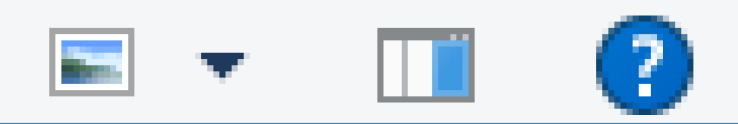
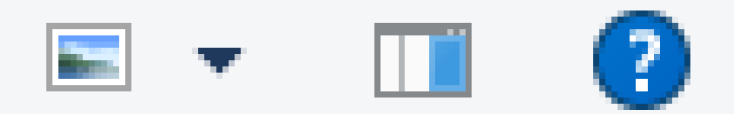
grtym

diff --git a/src/components/ChatWindow.tsx b/src/components/ChatWindow.tsx
@@ -37,6 +37,7 @@ export const ChatWindow: React.FC<ChatWindowProps> = ({
   const [currentStep, setCurrentStep] = useState(0);
   const [isWaitingForUserInput, setIsWaitingForUserInput] = useState(false);
   const [showFileDialog, setShowFileDialog] = useState(false);
+  const [selectedFile, setSelectedFile] = useState('');
   const [forcedText, setForcedText] = useState('');
   const [forcedTextIndex, setForcedTextIndex] = useState(0);
 
@@ -653,15 +654,15 @@ export const ChatWindow: React.FC<ChatWindowProps> = ({
       {/* Windows File Explorer Dialog */}
       {showFileDialog && (
         <div className="fixed inset-0 bg-black bg-opacity-50 flex items-center justify-center z-50 p-4">
-          <div className="bg-white border border-[#0078d4] shadow-2xl" style={{ width: '680px', height: '480px', fontFamily: 'Segoe UI, sans-serif' }}>
+          <div className="bg-white border border-[#0078d4] shadow-2xl" style={{ width: '680px', height: '400px', fontFamily: 'Segoe UI, sans-serif' }}>
             {/* Title Bar */}
-            <div className="h-8 bg-white border-b border-[#e1e1e1] flex items-center justify-between px-2">
+            <div className="h-8 mb-1 bg-white flex items-center justify-between px-2">
               <div className="flex items-center space-x-2">
                 <img src="file-explorer.png" alt="File" className="w-4 h-4" />
                 <span className="text-xs">Öppna</span>
               </div>
               <button
-                className="w-6 h-6 flex items-center justify-center hover:bg-red-500 hover:text-white text-xs"
+                className="w-6 h-6 flex items-center justify-center hover:bg-red-500 hover:text-white text-1xl"
                 onClick={() => setShowFileDialog(false)}
               >
                 ×
@@ -669,82 +670,82 @@ export const ChatWindow: React.FC<ChatWindowProps> = ({
             </div>
 
             {/* Navigation Bar */}
-            <div className="h-10 bg-[#f8f9fa] border-b border-[#e1e1e1] flex items-center px-2 space-x-1">
-              <button className="w-8 h-8 flex items-center justify-center hover:bg-gray-200 rounded">
-                <img src="/open-dialog/SCR-20250806-lyuu.png"   alt="Back" className="h-6 w-80" />
+            <div className="h-10 bg-[#fff] flex items-center px-2 space-x-1">
+              <button className=" h-8 flex items-center justify-center">
+                <img src="/open-dialog/SCR-20250806-lyuu.png"   alt="Back" className="h-6" />
               </button>
           
               <div className="flex-1 mx-2">
-                <div className="flex items-center bg-white border border-gray-300 rounded px-2 py-1 text-xs">
+                <div className="flex items-center bg-white border border-gray-300 px-2 py-1 text-xs">
                   <img src="/open-dialog/SCR-20250806-lypk.png" alt="PC" className="w-4 h-4 mr-1" />
+
+                    <img src="/open-dialog/SCR-20250806-micg.png" alt="PC" className="w-2 h-2 mr-1" />
                   <span>This PC</span>
-                  <span className="mx-1">&gt;</span>
+                    <img src="/open-dialog/SCR-20250806-micg.png" alt="PC" className="w-2 h-2 mr-1 ml-1" />
+
                   <span>Downloads</span>
-                  <button className="ml-auto">
-                    <img src="/open-dialog/SCR-20250806-lyto.png" alt="Dropdown" className="w-8 h-3" />
-                  </button>
+                  
                 </div>
               </div>
-              <div className="flex items-center bg-white border border-gray-300 rounded px-2 py-1 text-xs w-48">
-                <span className="text-gray-500">Sök i Hämtade filer</span>
-                <img src="/open-dialog/SCR-20250806-lyxd.png" alt="Search" className="w-4 h-4 mr-1" />
-              </div>
+             <div className="flex items-center justify-between bg-white border border-gray-300 px-2 py-1 text-xs w-48">
+  <span className="text-gray-500">Sök i Hämtade filer</span>
+  <img src="/open-dialog/SCR-20250806-lyxd.png" alt="Search" className="w-4 h-4" />
+</div>
             </div>
 
             {/* Toolbar */}
-            <div className="h-10 bg-[#f8f9fa] border-b border-[#e1e1e1] flex items-center px-2 space-x-4">
-              <div className="flex items-center space-x-1">
-                <span className="text-xs text-blue-600">Organize</span>
-                <img src="/open-dialog/SCR-20250806-lyyh.png" alt="Dropdown" className="w-3 h-3" />
+            <div className="h-10 bg-[#f8f9fa] border-b border-b-[#F0F0F0] flex items-center px-2 relative">
+              <div className="flex items-center space-x-4">
+                <div className="flex items-center space-x-1">
+                  <span className="text-xs text-[#1F3978] ml-2">Organize</span>
+                  <img src="/open-dialog/SCR-20250806-lyyh.png" alt="Dropdown" className="w-3 h-3" />
+                </div>
+                <span className="text-xs text-[#1F3978]">New folder</span>
               </div>
-              <span className="text-xs text-blue-600">New folder</span>
-              <div className="ml-auto flex items-center space-x-2">
-                {/*   Move this content to the maximum right START   */}
-                <img src="/open-dialog/SCR-20250806-lytd.png" alt="View" className="w-11 h-4" /> 
-                {/*   Move this content to the maximum right END   */}
-    
-              </div>
+              {/*   Move this content to the maximum right START   */}
+              <img src="/open-dialog/SCR-20250806-lytd.png" alt="View" className="h-5 absolute right-2 top-1/2 transform -translate-y-1/2" />
+              {/*   Move this content to the maximum right END   */}
             </div>
 
             {/* Main Content */}
-            <div className="flex flex-1 overflow-hidden">
+            <div className="flex h-64 overflow-hidden">
               {/* Sidebar */}
-              <div className="w-60 bg-[#f8f9fa] border-r border-[#e1e1e1] p-2">
+              <div className="w-70 flex-shrink-0 bg-white border-r border-[#F0F0F0] p-6">
                 <div className="space-y-1 text-xs">
-                  <div className="flex items-center space-x-2 p-1 hover:bg-blue-100 rounded">
-                    <img src="/open-dialog/SCR-20250806-lyuu.png" alt="Favorites" className="w-4 h-4" />
+                  <div className="flex items-center space-x-2 -pl-3 pb-1 hover:bg-blue-100">
+                    <img src="/open-dialog/SCR-20250806-lyoi.png" alt="Favorites" className="w-4 h-4" />
                     <span>Snabbaccess</span>
                   </div>
-                  <div className="flex items-center space-x-2 p-1 hover:bg-blue-100 rounded">
-                    <img src="/open-dialog/SCR-20250806-lywl.png" alt="Desktop" className="w-4 h-4" />
+                  <div className="flex items-center space-x-2 pt-1  pl-1  hover:bg-blue-100">
+                    <img src="/open-dialog/SCR-20250806-lyou.png" alt="Desktop" className="w-4 h-4" />
                     <span>Skrivbordet</span>
                   </div>
-                  <div className="flex items-center space-x-2 p-1 hover:bg-blue-100 rounded bg-blue-100">
-                    <img src="/open-dialog/SCR-20250806-lyxd.png" alt="Downloads" className="w-4 h-4" />
+                  <div className="flex items-center space-x-2 pt-1  pl-1 hover:bg-blue-100">
+                    <img src="/open-dialog/SCR-20250806-lypk.png" alt="Downloads" className="w-4 h-4" />
                     <span>Hämtade filer</span>
                   </div>
-                  <div className="flex items-center space-x-2 p-1 hover:bg-blue-100 rounded">
-                    <img src="/open-dialog/SCR-20250806-lyxl.png" alt="Documents" className="w-4 h-4" />
+                  <div className="flex items-center space-x-2 pt-1  pl-1 hover:bg-blue-100">
+                    <img src="/open-dialog/SCR-20250806-lypv.png" alt="Documents" className="w-4 h-4" />
                     <span>Mina dokument</span>
                   </div>
-                  <div className="flex items-center space-x-2 p-1 hover:bg-blue-100 rounded">
-                    <img src="/open-dialog/SCR-20250806-lyxu.png" alt="Pictures" className="w-4 h-4" />
+                  <div className="flex items-center space-x-2 pt-1 pl-1 hover:bg-blue-100">
+                    <img src="/open-dialog/SCR-20250806-lyqe.png" alt="Pictures" className="w-4 h-4" />
                     <span>Bilder</span>
                   </div>
-                  <div className="flex items-center space-x-2 p-1 hover:bg-blue-100 rounded">
-                    <img src="/open-dialog/SCR-20250806-lyyh.png" alt="Google Drive" className="w-4 h-4" />
+                  <div className="flex items-center space-x-2 pt-1  pl-1 pb-3 hover:bg-blue-100">
+                    <img src="/open-dialog/SCR-20250806-lyqp.png" alt="Google Drive" className="w-4 h-4" />
                     <span>Google Drive</span>
                   </div>
-                  <div className="flex items-center space-x-2 p-1 hover:bg-blue-100 rounded">
-                    <img src="/open-dialog/SCR-20250806-lyyw.png" alt="OneDrive" className="w-4 h-4" />
+                  <div className="flex items-center space-x-2 -pl-3 pt-2 pb-2 hover:bg-blue-100">
+                    <img src="/open-dialog/SCR-20250806-lyqz.png" alt="OneDrive" className="w-4 h-4" />
                     <span>OneDrive</span>
                   </div>
-                  <div className="flex items-center space-x-2 p-1 hover:bg-blue-100 rounded bg-gray-200">
-                    <img src="/open-dialog/SCR-20250806-mcng.png" alt="This PC" className="w-4 h-4" />
+                  <div className="flex items-center space-x-2 -pl-3 pt-2 pb-2 hover:bg-blue-100">
+                    <img src="/open-dialog/SCR-20250806-lyrr.png" alt="This PC" className="w-4 h-4" />
                     <span>This PC</span>
                   </div>
-                  <div className="flex items-center space-x-2 p-1 hover:bg-blue-100 rounded">
-                    <img src="/open-dialog/SCR-20250806-micg.png" alt="Network" className="w-4 h-4" />
+                  <div className="flex items-center space-x-2 -pl-3 pt-2 pb-2 hover:bg-blue-100">
+                    <img src="/open-dialog/SCR-20250806-lysc.png" alt="Network" className="w-4 h-4" />
                     <span>Network</span>
                   </div>
                 </div>
@@ -753,71 +754,99 @@ export const ChatWindow: React.FC<ChatWindowProps> = ({
               {/* File List */}
               <div className="flex-1 bg-white">
                 {/* Column Headers */}
-                <div className="h-8 bg-[#f8f9fa] border-b border-[#e1e1e1] flex items-center px-2 text-xs text-gray-600">
-                  <div className="w-80">Namn</div>
+                <div className="h-8 bg-white border-b border-[#e1e1e1] flex items-center text-xs text-gray-600">
+                  <div className="w-6"></div> {/* Space for icon */}
+                  <div className="w-80 pl-2">Namn</div>
                   <div className="w-32">Modifierad</div>
                   <div className="w-32">Typ</div>
                 </div>
 
                 {/* File Items */}
-                <div className="p-2 space-y-1">
-                  <div className="flex items-center p-1 hover:bg-blue-100 rounded cursor-pointer bg-blue-100">
-                    <img src="/open-dialog/SCR-20250806-mlzz.png" alt="PDF" className="w-4 h-4 mr-2" />
-                    <div className="w-80 text-xs">INT-2025-04-7731-BK.pdf</div>
-                    <div className="w-32 text-xs text-gray-500">4/10/2025 09:17</div>
-                    <div className="w-32 text-xs text-gray-500">Adobe Acrobat Reader</div>
+                <div className="p-2 space-y-[0px]">
+                  <div
+                    className={`flex items-center py-2 cursor-pointer ${
+                      selectedFile === 'INT-2025-04-7731-BK.pdf'
+                        ? 'bg-[#0078d4] text-white'
+                        : 'hover:bg-[#CCE8FE]'
+                    }`}
+                    onClick={() => setSelectedFile('INT-2025-04-7731-BK.pdf')}
+                  >
+                    <div className="w-6 flex justify-center">
+                      <img src="/open-dialog/SCR-20250806-nzvs.png" alt="PDF" className="h-4" />
+                    </div>
+                    <div className="w-80 text-xs pl-2">INT-2025-04-7731-BK.pdf</div>
+                    <div className={`w-32 text-xs ${selectedFile === 'INT-2025-04-7731-BK.pdf' ? 'text-white' : 'text-gray-500'}`}>4/10/2025 09:17</div>
+                    <div className={`w-32 text-xs ${selectedFile === 'INT-2025-04-7731-BK.pdf' ? 'text-white' : 'text-gray-500'}`}>Adobe Acrobat Reader</div>
                   </div>
-                  <div className="flex items-center p-1 hover:bg-blue-100 rounded cursor-pointer">
-                    <img src="/open-dialog/SCR-20250806-mlzz.png" alt="PDF" className="w-4 h-4 mr-2" />
-                    <div className="w-80 text-xs">INT-2025-03-1542-PL.pdf</div>
+                  <div className="flex items-center py-2 hover:bg-[#CCE8FE] border-blue-900 cursor-pointer">
+                    <div className="w-6 flex justify-center">
+                      <img src="/open-dialog/SCR-20250806-nzvs.png" alt="PDF" className="h-4" />
+                    </div>
+                    <div className="w-80 text-xs pl-2">INT-2025-03-1542-PL.pdf</div>
                     <div className="w-32 text-xs text-gray-500">5/22/2025 21:45</div>
                     <div className="w-32 text-xs text-gray-500">Adobe Acrobat Reader</div>
                   </div>
-                  <div className="flex items-center p-1 hover:bg-blue-100 rounded cursor-pointer">
-                    <img src="/open-dialog/SCR-20250806-lyto.png" alt="Folder" className="w-4 h-4 mr-2" />
-                    <div className="w-80 text-xs">FUP-MORDEN</div>
+                  <div className="flex items-center py-2 hover:bg-[#CCE8FE] border-blue-900 cursor-pointer">
+                    <div className="w-6 flex justify-center">
+                      <img src="/open-dialog/SCR-20250806-mcng.png" alt="Folder" className="w-4 h-4" />
+                    </div>
+                    <div className="w-80 text-xs pl-2">FUP-MORDEN</div>
                     <div className="w-32 text-xs text-gray-500">6/15/2025 14:03</div>
                     <div className="w-32 text-xs text-gray-500">Mapp</div>
                   </div>
-                  <div className="flex items-center p-1 hover:bg-blue-100 rounded cursor-pointer">
-                    <img src="/open-dialog/SCR-20250806-lyto.png" alt="Folder" className="w-4 h-4 mr-2" />
-                    <div className="w-80 text-xs">ärende_Värmdö</div>
+                  <div className="flex items-center py-2 hover:bg-[#CCE8FE] border-blue-900 cursor-pointer">
+                    <div className="w-6 flex justify-center">
+                      <img src="/open-dialog/SCR-20250806-mcng.png" alt="Folder" className="w-4 h-4" />
+                    </div>
+                    <div className="w-80 text-xs pl-2">ärende_Värmdö</div>
                     <div className="w-32 text-xs text-gray-500">7/01/2025 06:52</div>
                     <div className="w-32 text-xs text-gray-500">Mapp</div>
                   </div>
-                  <div className="flex items-center p-1 hover:bg-blue-100 rounded cursor-pointer">
-                    <img src="/open-dialog/SCR-20250806-lyto.png" alt="Folder" className="w-4 h-4 mr-2" />
-                    <div className="w-80 text-xs">34-SP-Personalaktar/Misstänkta</div>
+                  <div className="flex items-center py-2 hover:bg-[#CCE8FE] border-blue-900 cursor-pointer">
+                    <div className="w-6 flex justify-center">
+                      <img src="/open-dialog/SCR-20250806-mcng.png" alt="Folder" className="w-4 h-4" />
+                    </div>
+                    <div className="w-80 text-xs pl-2">34-SP-Personalaktar/Misstänkta</div>
                     <div className="w-32 text-xs text-gray-500">8/06/2025 18:29</div>
                     <div className="w-32 text-xs text-gray-500">Mapp</div>
                   </div>
-                  <div className="flex items-center p-1 hover:bg-blue-100 rounded cursor-pointer">
-                    <img src="/open-dialog/SCR-20250806-lyto.png" alt="Folder" className="w-4 h-4 mr-2" />
-                    <div className="w-80 text-xs">Gamla fall</div>
+                  <div className="flex items-center py-2 hover:bg-[#CCE8FE] border-blue-900 cursor-pointer">
+                    <div className="w-6 flex justify-center">
+                      <img src="/open-dialog/SCR-20250806-mcng.png" alt="Folder" className="w-4 h-4" />
+                    </div>
+                    <div className="w-80 text-xs pl-2">Gamla fall</div>
                     <div className="w-32 text-xs text-gray-500">9/14/2025 11:38</div>
                     <div className="w-32 text-xs text-gray-500">Mapp</div>
                   </div>
-                  <div className="flex items-center p-1 hover:bg-blue-100 rounded cursor-pointer">
-                    <img src="/open-dialog/SCR-20250806-lyto.png" alt="Folder" className="w-4 h-4 mr-2" />
-                    <div className="w-80 text-xs">Privat</div>
+                  <div className="flex items-center py-2 hover:bg-[#CCE8FE] border-blue-900 cursor-pointer">
+                    <div className="w-6 flex justify-center">
+                      <img src="/open-dialog/SCR-20250806-mcng.png" alt="Folder" className="w-4 h-4" />
+                    </div>
+                    <div className="w-80 text-xs pl-2">Privat</div>
                     <div className="w-32 text-xs text-gray-500">10/30/2025 23:07</div>
                     <div className="w-32 text-xs text-gray-500">Mapp</div>
                   </div>
-                  <div className="flex items-center p-1 hover:bg-blue-100 rounded cursor-pointer">
-                    <img src="/open-dialog/SCR-20250806-lyue.png" alt="Audio" className="w-4 h-4 mr-2" />
-                    <div className="w-80 text-xs">ljudupptagning_FARSTA.wav</div>
+                  <div className="flex items-center py-2 hover:bg-[#CCE8FE] border-blue-900 cursor-pointer">
+                    <div className="w-6 flex justify-center">
+                      <img src="/open-dialog/SCR-20250806-lyxl.png" alt="Audio" className="w-4 h-4" />
+                    </div>
+                    <div className="w-80 text-xs pl-2">ljudupptagning_FARSTA.wav</div>
                     <div className="w-32 text-xs text-gray-500">11/12/2025 15:56</div>
                     <div className="w-32 text-xs text-gray-500">Waveform</div>
                   </div>
-                  <div className="flex items-center p-1 hover:bg-blue-100 rounded cursor-pointer">
-                    <img src="/open-dialog/SCR-20250806-lyxu.png" alt="Image" className="w-4 h-4 mr-2" />
-                    <div className="w-80 text-xs">fantombild-Larsson.png</div>
+                  <div className="flex items-center py-2 hover:bg-[#CCE8FE] border-blue-900 cursor-pointer">
+                    <div className="w-6 flex justify-center">
+                      <img src="/open-dialog/png.png" alt="Image" className="h-4" />
+                    </div>
+                    <div className="w-80 text-xs pl-2">fantombild-Larsson.png</div>
                     <div className="w-32 text-xs text-gray-500">12/25/2025 08:44</div>
                     <div className="w-32 text-xs text-gray-500">PNG-fil</div>
                   </div>
-                  <div className="flex items-center p-1 hover:bg-blue-100 rounded cursor-pointer">
-                    <img src="/open-dialog/SCR-20250806-lyto.png" alt="Folder" className="w-4 h-4 mr-2" />
-                    <div className="w-80 text-xs">54-MP-Misstänkta</div>
+                  <div className="flex items-center py-2 hover:bg-[#CCE8FE] border-blue-900 cursor-pointer">
+                    <div className="w-6 flex justify-center">
+                      <img src="/open-dialog/SCR-20250806-mcng.png" alt="Folder" className="w-4 h-4" />
+                    </div>
+                    <div className="w-80 text-xs pl-2">54-MP-Misstänkta</div>
                     <div className="w-32 text-xs text-gray-500">1/05/2026 20:15</div>
                     <div className="w-32 text-xs text-gray-500">Mapp</div>
                   </div>
@@ -826,25 +855,33 @@ export const ChatWindow: React.FC<ChatWindowProps> = ({
             </div>
 
             {/* Bottom Bar */}
-            <div className="h-12 bg-[#f8f9fa] border-t border-[#e1e1e1] flex items-center px-4 space-x-4">
-              <div className="flex items-center space-x-2 flex-1">
-                <span className="text-xs">Filnamn:</span>
-                <div className="flex-1 bg-white border border-gray-300 rounded px-2 py-1 text-xs">
-                  INT-2025-04-7731-BK.pdf
+            <div className="bg-[#F0F0F0] border-t border-[#e1e1e1] px-4 py-3 -mt-4 relative z-10">
+              {/* First Row - Filnamn and Alla filer */}
+              <div className="flex items-center space-x-4 mb-3">
+                <div className="flex items-center space-x-2 ml-auto">
+                  <span className="text-xs">Filnamn:</span>
+                
+                <div className="bg-white border border-blue-300 px-2 py-1 text-xs w-64 flex items-center justify-between">
+                    <span>{selectedFile || ''}</span>
+                    <button className="text-xs">
+                      <img src="/open-dialog/pilned.png" alt="Dropdown" className="h-4 w-[11px] pt-1 pb-1" />
+                    </button>
+                  </div>
+
+
                 </div>
-                <button className="text-xs">
-                  <img src="/open-dialog/SCR-20250806-lyqz.png" alt="Dropdown" className="w-3 h-3" />
-                </button>
+                <div className="flex items-center">
+                  <select className="text-xs bg-[#E1E1E1] border border-gray-300 px-2 py-1">
+                    <option>Alla filer</option>
+                    <option>PDF-filer (*.pdf)</option>
+                    <option>Dokument (*.doc, *.docx)</option>
+                  </select>
+                </div>
               </div>
-              <div className="flex items-center">
-                <select className="text-xs bg-white border border-gray-300 rounded px-2 py-1">
-                  <option>Alla filer</option>
-                  <option>PDF-filer (*.pdf)</option>
-                  <option>Dokument (*.doc, *.docx)</option>
-                </select>
-              </div>
-              <div className="flex space-x-2">
-                <button className="px-4 py-1 bg-[#0078d4] text-white text-xs rounded hover:bg-[#106ebe]"
+
+              {/* Second Row - Buttons */}
+              <div className="flex justify-end space-x-2">
+                <button className="px-6 py-1 bg-[#E1E1E1] border-2 border-blue-500 text-gray text-xs hover:bg-[#CECECE]"
                   onClick={() => {
                     // Send file and proceed to final message
                     addMessage('Max', 'ATTACHMENT:INT-2025-04-7731-BK.pdf');
@@ -855,7 +892,7 @@ export const ChatWindow: React.FC<ChatWindowProps> = ({
                   Öppna
                 </button>
                 <button
-                  className="px-4 py-1 bg-white border border-gray-300 text-xs rounded hover:bg-gray-50"
+                  className="px-6 py-1 bg-[#E1E1E1] text-gray text-xs hover:bg-[#CECECE]"
                   onClick={() => setShowFileDialog(false)}
                 >
                   Avbryt
